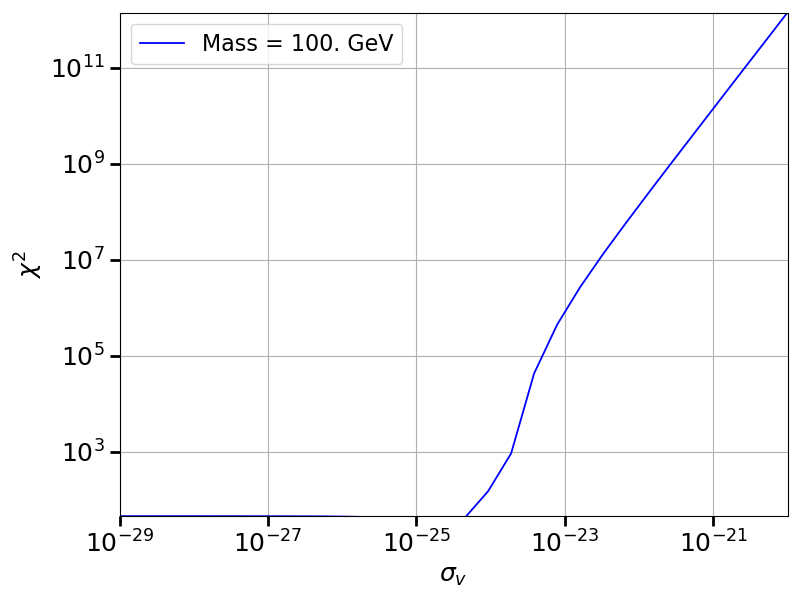
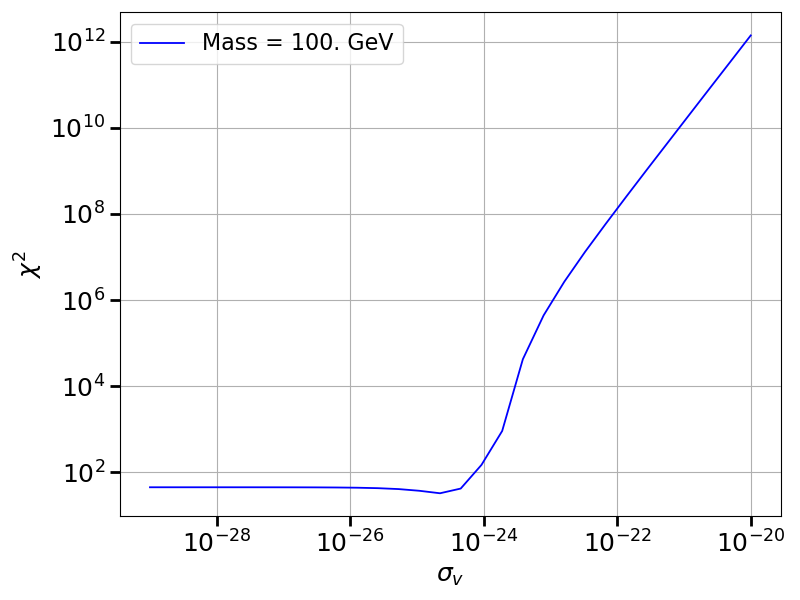
Initialized first testing for upperlimit chisquare: for channel 16, 30 masses and 30 sigmas for each mass. Bug: all upperlimits turn out the same.

diff --git a/PWNs_Positron_Excess/AMS_DM_Upperlimits.py b/PWNs_Positron_Excess/AMS_DM_Upperlimits.py
@@ -6,38 +6,25 @@
 '''
 
 import numpy as np
-import math
 import AMS_DM_model as DM
 import AMS_model as PWN
 from iminuit import Minuit
 import os
 import shutil
+from scipy.interpolate import interp2d
 import matplotlib.pyplot as pl
+import time_package
+
 
 # Determine the channels we would like to fit
 #e 7, mu 10, tau 13, bb 16, tt 17, WW 20, ZZ 23, gamma 25, h 26
-channel_arr = np.array([7, 16, 10, 13])
+channel_arr = np.array([16])
 
 # Make array of cross sections and masses
-mass_arr = np.logspace(1.0, 4.0, 30) # GeV
-sigma_arr = np.logspace(-29.0 ,20.0 ,90)
+mass_arr = np.logspace(1.0, 4.0, 2) # GeV
+# mass_arr = np.array([1000.])
+sigma_arr = np.logspace(-29.0 ,-20.0 ,5)
 sigma_exp_arr = np.log10(sigma_arr)
-
-# Define necessary constants for PWN component
-kpc = 3.09e18
-kyr = 1000*365*24*3600
-E_range = np.power(10.,np.arange(math.log10(1.),math.log10(1e5)+0.1,0.1)) #GeV
-d = 0.5*kpc #kpc
-T = 100*kyr #age in kyrs
-E_c = 1000 #cutoff energy in GeV
-gamma = 1.8
-tau_0 = 10*kyr #kyr
-E_dot = 1e35 #spin-down luminosity in erg/s
-eta = 0.1 # flux conversion rate
-delta = 0.408
-k_0 = kpc**2*0.0967/(1.0e6*365*24*3600)
-alpha = 2
-b_0 = 1e-16
 
 # Extract AMS-02 data
 tabledata = np.loadtxt('positron_ams02_19.dat')
@@ -49,31 +36,45 @@ x_errorup_pos = np.subtract(x_errorup_pos_val, epos)
 x_errordown_pos = np.subtract(epos, x_errordown_pos_val)
 errortot_pos = np.power(tabledata[:,2],3.)*np.sqrt(tabledata[:,7]*tabledata[:,7]+tabledata[:,12]*tabledata[:,12])*tabledata[:,13]/1.e4
 
+# Interpolating 2D x = epos, y = gamma_array, z = totalflux
+gamma_array = np.arange(1.4, 2.4, 0.1)
+x = epos
+y = gamma_array
+z = np.zeros((len(gamma_array), len(epos)))
+
+for i in range(len(gamma_array)):
+    # os.chdir(Output)
+    flux_array = np.loadtxt("fluxtot_gamma%d.txt" % i)
+    z[i, :] = flux_array[:, 1]
+    # os.chdir("../")
+
+funcinterpolate = interp2d(x, y, z)
+
 # Define function to be minimized
 def f_BPL_DM(par0,par1,par2,par3,par4):
     eta = pow(10., par0)
     gamma = par1
     normalization_sec = par2
-    DM_mass = par3
-    sigma_v_normalization = math.pow(10,par4)
+    DM_mass = par4
+    sigma_v_normalization = np.power(10,par3)
     chisq = 0
     for t in range(24, len(epos), 1):
-        model_PWN = PWN.flux(epos[t], eta, b_0, d, E_c, gamma, T)
-        model_DM = np.power(epos[t],3.)*sigma_v_normalization*DM.DM_spectrum(epos[t], DM_mass, DMchannel)[0]
+        model_PWN = eta * funcinterpolate(epos[t], gamma)
+        model_DM = np.power(epos[t],3.)*sigma_v_normalization*DM.DM_spectrum(epos[t], DM_mass, DMchannel)[0]/np.power(10.,-26)
         model_sec = PWN.flux_secondary(epos[t], normalization_sec)
         model_tot = model_PWN + model_sec + model_DM
         chisq = chisq + np.power((model_tot - pos[t]) / errortot_pos[t], 2.)
-    print(chisq)
     return chisq
 
 # Define an empty array of chisquare values from the the cross section array
 chisquare_arr = np.zeros((len(channel_arr), len(mass_arr), len(sigma_exp_arr)))
 upperlim_arr = np.zeros((len(channel_arr), len(mass_arr)))
 
+
 for i, DMchannel in enumerate(channel_arr):
     for j, mass in enumerate(mass_arr):
         for k, sigma_exp in enumerate(sigma_exp_arr):
-            m = Minuit(f_BPL_DM, par0=0.06, par1=1.44, par2=1.26, par3=mass, par4=sigma_exp)
+            m = Minuit(f_BPL_DM, par0=0.06, par1=1.44, par2=1.26, par3=sigma_exp, par4=mass)
             m.errors['par0'] = 0.06
             m.errors['par1'] = 0.03
             m.errors['par2'] = 0.02
@@ -82,13 +83,15 @@ for i, DMchannel in enumerate(channel_arr):
             m.limits['par0'] = (-10.0, 10.)
             m.limits['par1'] = (0., 5.)
             m.limits['par2'] = (0.1, 10.)
-            m.limits['par3'] = (1e1, 1e4)
-            m.limits['par4'] = (-3, 6)
+            m.limits['par3'] = (-29, 20)
+            m.limits['par4'] = (95., 105.)
+            m.fixed['par3'] = True
+            m.fixed['par4'] = True
             m.errordef = 1
             m.migrad()
-            # print('value', m.values)
-            # print('error', m.errors)
-            # print('fval', m.fval)
+            print('value', m.values)
+            print('error', m.errors)
+            print('fval', m.fval)
             chisquare_arr[i, j, k] = m.fval
 
 print(chisquare_arr)
@@ -117,6 +120,8 @@ for i, channel in enumerate(channel_arr):
         chisq_arr = chisquare_arr[i, j]
         index = upperlimindex(chisq_arr)
         upperlim_arr[i, j] = sigma_arr[index]
+
+print("Upperlimit sigma: ", upperlim_arr)
 
 # Output files
 

diff --git a/PWNs_Positron_Excess/AMS_DM_sigma_chisq_plot.py b/PWNs_Positron_Excess/AMS_DM_sigma_chisq_plot.py
@@ -13,14 +13,15 @@ data = np.loadtxt("sigma_v_vs_chisquare%d.txt"%channel)
 sigma_v = data[:,0]
 chisq = data[:,1]
 
-print(sigma_v, chisq)
-
+# Boundary index for the plot
+upperbound = 16
+lowerbound = 11
 fig = pl.figure(figsize=(8, 6))
 pl.rcParams['font.size'] = '18'
-pl.plot(np.power(10, sigma_v), chisq, lw=1.3, ls='-', color="blue", label='Mass = 100. GeV')
+pl.plot(np.power(10,sigma_v), chisq, lw=1.3, ls='-', color="blue", label='Mass = 100. GeV')
 pl.ylabel(r'$\chi^2$', fontsize=18)
 pl.xlabel(r'$\sigma_v$', fontsize=18)
-pl.axis([np.power(10, sigma_v)[0], np.power(10, sigma_v)[-1], chisq[0], chisq[-1]])
+# pl.axis([np.power(10, sigma_v)[lowerbound], np.power(10, sigma_v)[upperbound], chisq[lowerbound], chisq[upperbound]])
 pl.xticks(fontsize=18)
 pl.yticks(fontsize=18)
 pl.tick_params('both', length=7, width=2, which='major')

diff --git a/PWNs_Positron_Excess/AMS_DM_UpperlimTest.py b/PWNs_Positron_Excess/AMS_DM_UpperlimTest.py
@@ -15,8 +15,8 @@ import time_package
 
 # Determine the channels we would like to fit
 #e 7, mu 10, tau 13, bb 16, tt 17, WW 20, ZZ 23, gamma 25, h 26
-channel_arr = np.array([13])
-channel = 13
+channel_arr = np.array([16])
+channel = 16
 
 # Make array of cross sections and masses
 DM_mass = 100.
@@ -60,7 +60,6 @@ def f_BPL_DM(par0, par1, par2, par3):
         model_sec = PWN.flux_secondary(epos[t], normalization_sec)
         model_tot = model_PWN + model_sec + model_DM
         chisq = chisq + np.power((model_tot - pos[t]) / errortot_pos[t], 2.)
-        # print(epos[t],model_PWN,model_DM,model_sec)
     return chisq
 
 # Define an empty array of chisquare values from the the cross section array
